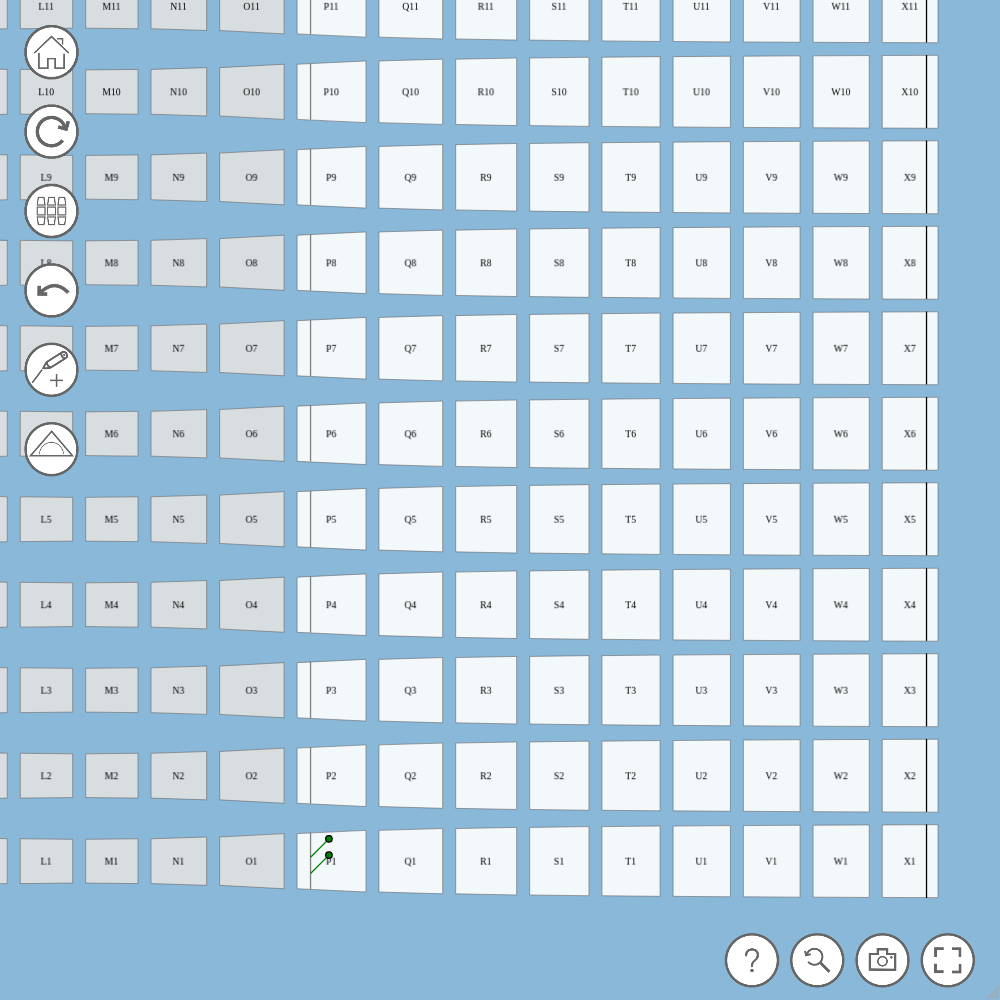
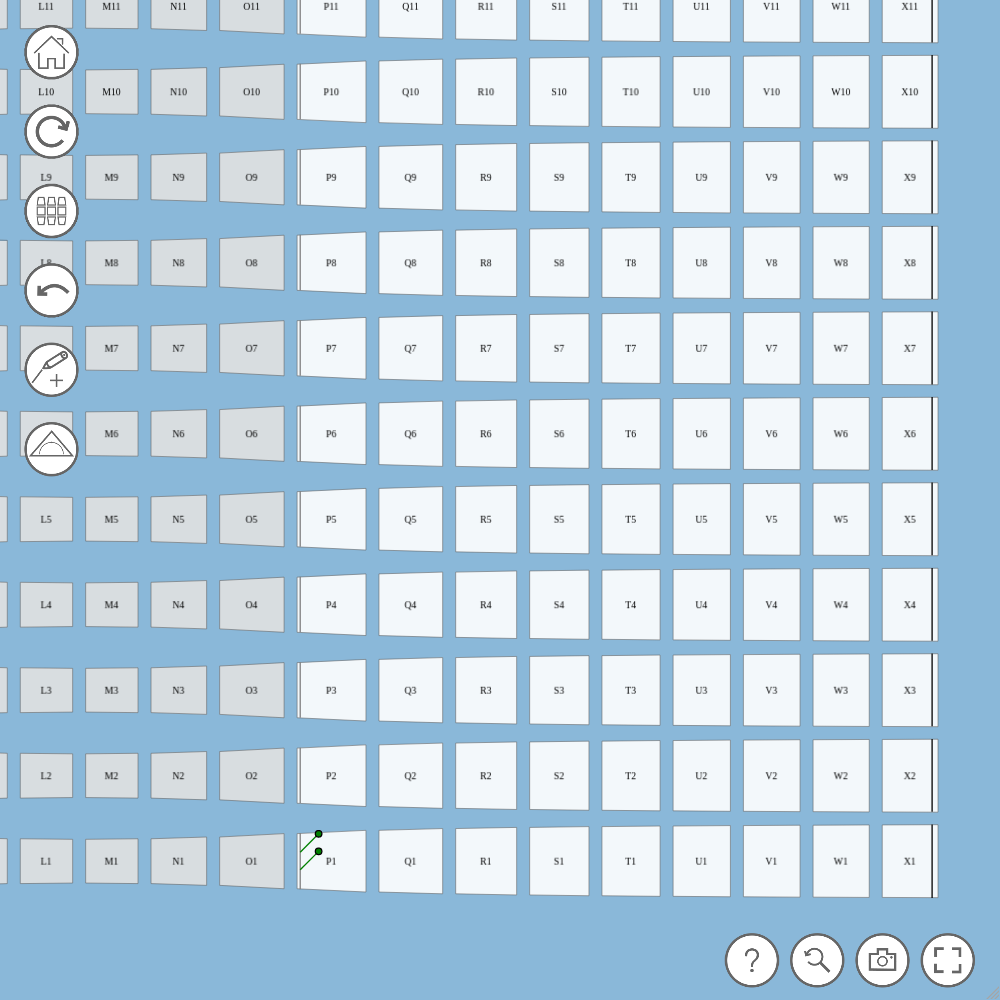
korrekturen

Changed region(s): [[0.279, 0.837, 0.341, 0.868]]

diff --git a/neutronstar_schwarzschild_rz_mix_sym_lander.js b/neutronstar_schwarzschild_rz_mix_sym_lander.js
@@ -12,8 +12,8 @@ startViewportTransform_5 =-2800
 fontSize: 15
 startGeodesicsSectors: [639, 959, 639, 639]
 startGeodesicsAngle: [180, 180, 135, 135]
-startGeodesicsOffset_x: [0.2, 0.8, 0.2, 0.2]
-startGeodesicsOffset_y: [0, 0, 25, 50]
+startGeodesicsOffset_x: [0.05, 0.9, 0.05, 0.05]
+startGeodesicsOffset_y: [0, 0, 30, 57]
 startGeodesicsOperational: ['false', 'false', 'true', 'true']
 ----------------------
 */
@@ -42,10 +42,10 @@ sec_posx= [ 300, 300, 300, 300, 300, 300, 300, 300, 300, 300, 300, 300, 300, 300
 sec_posy= [ 100, 231.51844527415022, 363.03689054830045, 494.5553358224507, 626.0737810966009, 757.5922263707512, 889.1106716449013, 1020.6291169190515, 1152.1475621932018, 1283.666007467352, 1415.1844527415024, 1546.7028980156524, 1678.2213432898027, 1809.739788563953, 1941.258233838103, 2072.776679112253, 2204.2951243864036, 2335.8135696605536, 2467.332014934704, 2598.850460208854, 2730.3689054830047, 2861.8873507571548, 2993.405796031305, 3124.9242413054553, 3256.4426865796054, 3387.9611318537554, 3519.479577127906, 3650.998022402056, 3782.516467676206, 3914.0349129503566, 4045.5533582245066, 4177.071803498657, 4308.590248772807, 4440.108694046958, 4571.627139321107, 4703.145584595258, 4834.664029869408, 4966.182475143558, 5097.700920417708, 5229.219365691859, 99.634361835466, 231.15280710961622, 362.67125238376644, 494.18969765791667, 625.708142932067, 757.2265882062172, 888.7450334803673, 1020.2634787545176, 1151.7819240286678, 1283.3003693028181, 1414.8188145769684, 1546.3372598511185, 1677.8557051252687, 1809.374150399419, 1940.892595673569, 2072.411040947719, 2203.9294862218694, 2335.4479314960195, 2466.96637677017, 2598.48482204432, 2730.0032673184705, 2861.5217125926206, 2993.0401578667706, 3124.558603140921, 3256.077048415071, 3387.5954936892213, 3519.1139389633718, 3650.632384237522, 3782.150829511672, 3913.6692747858224, 4045.1877200599724, 4176.7061653341225, 4308.224610608273, 4439.7430558824235, 4571.261501156573, 4702.779946430724, 4834.298391704874, 4965.816836979024, 5097.335282253174, 5228.853727527325, 99.19240594214821, 230.71085121629844, 362.22929649044863, 493.74774176459886, 625.2661870387492, 756.7846323128995, 888.3030775870495, 1019.8215228611998, 1151.33996813535, 1282.8584134095004, 1414.3768586836507, 1545.8953039578007, 1677.413749231951, 1808.9321945061013, 1940.4506397802513, 2071.969085054401, 2203.4875303285517, 2335.0059756027017, 2466.524420876852, 2598.0428661510023, 2729.561311425153, 2861.079756699303, 2992.598201973453, 3124.1166472476034, 3255.6350925217534, 3387.1535377959035, 3518.671983070054, 3650.190428344204, 3781.708873618354, 3913.2273188925046, 4044.7457641666547, 4176.264209440805, 4307.782654714955, 4439.301099989106, 4570.819545263255, 4702.337990537406, 4833.856435811556, 4965.374881085706, 5096.8933263598565, 5228.411771634007, 98.6473949489075, 230.16584022305773, 361.68428549720795, 493.2027307713581, 624.7211760455085, 756.2396213196588, 887.7580665938088, 1019.2765118679591, 1150.7949571421093, 1282.3134024162596, 1413.8318476904099, 1545.35029296456, 1676.8687382387102, 1808.3871835128605, 1939.9056287870105, 2071.4240740611604, 2202.942519335311, 2334.460964609461, 2465.9794098836114, 2597.4978551577615, 2729.016300431912, 2860.534745706062, 2992.053190980212, 3123.5716362543626, 3255.0900815285127, 3386.6085268026627, 3518.126972076813, 3649.6454173509633, 3781.1638626251133, 3912.682307899264, 4044.200753173414, 4175.719198447564, 4307.237643721714, 4438.756088995865, 4570.274534270015, 4701.792979544165, 4833.311424818316, 4964.829870092465, 5096.348315366616, 5227.866760640766, 97.95840833035072, 229.47685360450095, 360.99529887865117, 492.51374415280134, 624.0321894269517, 755.550634701102, 887.0690799752521, 1018.5875252494023, 1150.1059705235525, 1281.6244157977028, 1413.142861071853, 1544.6613063460031, 1676.1797516201534, 1807.6981968943037, 1939.2166421684537, 2070.735087442604, 2202.2535327167543, 2333.7719779909044, 2465.290423265055, 2596.808868539205, 2728.3273138133554, 2859.8457590875055, 2991.3642043616555, 3122.882649635806, 3254.401094909956, 3385.919540184106, 3517.4379854582567, 3648.9564307324067, 3780.4748760065568, 3911.9933212807073, 4043.5117665548573, 4175.030211829007, 4306.548657103158, 4438.067102377308, 4569.585547651458, 4701.1039929256085, 4832.622438199759, 4964.140883473909, 5095.659328748059, 5227.17777402221, 97.05945482406598, 228.57790009821622, 360.09634537236644, 491.6147906465166, 623.133235920667, 754.6516811948172, 886.1701264689673, 1017.6885717431176, 1149.2070170172678, 1280.7254622914181, 1412.2439075655684, 1543.7623528397185, 1675.2807981138687, 1806.799243388019, 1938.317688662169, 2069.836133936319, 2201.3545792104696, 2332.8730244846197, 2464.39146975877, 2595.9099150329203, 2727.4283603070708, 2858.946805581221, 2990.465250855371, 3121.9836961295214, 3253.5021414036714, 3385.0205866778215, 3516.539031951972, 3648.057477226122, 3779.575922500272, 3911.0943677744226, 4042.6128130485727, 4174.131258322723, 4305.649703596873, 4437.168148871024, 4568.686594145173, 4700.205039419324, 4831.723484693474, 4963.241929967624, 5094.760375241774, 5226.278820515925, 95.8366634254572, 227.35510869960743, 358.8735539737577, 490.39199924790785, 621.9104445220581, 753.4288897962084, 884.9473350703585, 1016.4657803445087, 1147.9842256186591, 1279.5026708928094, 1411.0211161669597, 1542.5395614411098, 1674.05800671526, 1805.5764519894103, 1937.0948972635604, 2068.61334253771, 2200.1317878118607, 2331.6502330860108, 2463.1686783601613, 2594.6871236343113, 2726.205568908462, 2857.724014182612, 2989.242459456762, 3120.7609047309124, 3252.2793500050625, 3383.7977952792126, 3515.316240553363, 3646.834685827513, 3778.353131101663, 3909.8715763758137, 4041.3900216499637, 4172.908466924114, 4304.426912198264, 4435.945357472415, 4567.463802746564, 4698.982248020715, 4830.500693294865, 4962.019138569015, 5093.5375838431655, 5225.056029117316, 94.07474079043541, 225.59318606458564, 357.1116313387359, 488.63007661288606, 620.1485218870364, 751.6669671611867, 883.1854124353367, 1014.703857709487, 1146.2223029836373, 1277.7407482577876, 1409.2591935319379, 1540.777638806088, 1672.2960840802382, 1803.8145293543885, 1935.3329746285385, 2066.8514199026886, 2198.369865176839, 2329.888310450989, 2461.4067557251396, 2592.9252009992897, 2724.44364627344, 2855.9620915475903, 2987.4805368217403, 3118.998982095891, 3250.517427370041, 3382.035872644191, 3513.5543179183414, 3645.0727631924915, 3776.5912084666415, 3908.109653740792, 4039.628099014942, 4171.146544289092, 4302.664989563243, 4434.183434837393, 4565.701880111543, 4697.220325385693, 4828.738770659844, 4960.257215933993, 5091.775661208144, 5223.294106482294, 91.30930410091658, 222.8277493750668, 354.34619464921707, 485.86463992336724, 617.3830851975175, 748.9015304716678, 880.4199757458179, 1011.9384210199681, 1143.4568662941185, 1274.9753115682688, 1406.493756842419, 1538.0122021165691, 1669.5306473907194, 1801.0490926648697, 1932.5675379390198, 2064.0859832131696, 2195.60442848732, 2327.12287376147, 2458.6413190356207, 2590.1597643097707, 2721.678209583921, 2853.1966548580713, 2984.7151001322213, 3116.233545406372, 3247.751990680522, 3379.270435954672, 3510.7888812288224, 3642.3073265029725, 3773.8257717771226, 3905.344217051273, 4036.862662325423, 4168.381107599574, 4299.899552873724, 4431.417998147875, 4562.936443422024, 4694.454888696175, 4825.973333970325, 4957.491779244475, 5089.010224518625, 5220.528669792776, 86.30154606958374, 217.81999134373393, 349.3384366178842, 480.8568818920344, 612.3753271661847, 743.8937724403349, 875.412217714485, 1006.9306629886353, 1138.4491082627858, 1269.967553536936, 1401.4859988110863, 1533.0044440852364, 1664.5228893593867, 1796.041334633537, 1927.559779907687, 2059.078225181837, 2190.5966704559874, 2322.1151157301374, 2453.633561004288, 2585.152006278438, 2716.6704515525885, 2848.1888968267385, 2979.7073421008886, 3111.225787375039, 3242.744232649189, 3374.262677923339, 3505.7811231974897, 3637.2995684716398, 3768.81801374579, 3900.3364590199403, 4031.8549042940904, 4163.373349568241, 4294.891794842391, 4426.410240116542, 4557.9286853906915, 4689.447130664842, 4820.9655759389925, 4952.484021213142, 5084.002466487293, 5215.520911761443, 81.05723639453426, 212.57568166868447, 344.09412694283475, 475.6125722169849, 607.1310174911351, 738.6494627652854, 870.1679080394355, 1001.6863533135858, 1133.2047985877364, 1264.7232438618867, 1396.241689136037, 1527.760134410187, 1659.2785796843373, 1790.7970249584876, 1922.3154702326376, 2053.8339155067874, 2185.352360780938, 2316.870806055088, 2448.3892513292385, 2579.9076966033886, 2711.426141877539, 2842.944587151689, 2974.463032425839, 3105.9814776999897, 3237.4999229741397, 3369.01836824829, 3500.5368135224403, 3632.0552587965904, 3763.5737040707404, 3895.092149344891, 4026.610594619041, 4158.1290398931915, 4289.647485167342, 4421.1659304414925, 4552.684375715642, 4684.202820989793, 4815.721266263943, 4947.239711538093, 5078.758156812243, 5210.276602086394, 78.35999003095367, 209.87843530510386, 341.3968805792542, 472.91532585340434, 604.4337711275546, 735.9522164017048, 867.4706616758549, 998.9891069500052, 1130.5075522241557, 1262.025997498306, 1393.5444427724563, 1525.0628880466063, 1656.5813333207566, 1788.0997785949069, 1919.618223869057, 2051.1366691432067, 2182.6551144173573, 2314.1735596915073, 2445.692004965658, 2577.210450239808, 2708.7288955139584, 2840.2473407881084, 2971.7657860622585, 3103.284231336409, 3234.802676610559, 3366.321121884709, 3497.8395671588596, 3629.3580124330097, 3760.8764577071597, 3892.39490298131, 4023.9133482554603, 4155.431793529611, 4286.950238803762, 4418.468684077912, 4549.987129352062, 4681.505574626212, 4813.024019900363, 4944.5424651745125, 5076.060910448663, 5207.5793557228135, 78.35999003095367, 209.87843530510386, 341.3968805792542, 472.91532585340434, 604.4337711275546, 735.9522164017048, 867.4706616758549, 998.9891069500052, 1130.5075522241557, 1262.025997498306, 1393.5444427724563, 1525.0628880466063, 1656.5813333207566, 1788.0997785949069, 1919.618223869057, 2051.1366691432067, 2182.6551144173573, 2314.1735596915073, 2445.692004965658, 2577.210450239808, 2708.7288955139584, 2840.2473407881084, 2971.7657860622585, 3103.284231336409, 3234.802676610559, 3366.321121884709, 3497.8395671588596, 3629.3580124330097, 3760.8764577071597, 3892.39490298131, 4023.9133482554603, 4155.431793529611, 4286.950238803762, 4418.468684077912, 4549.987129352062, 4681.505574626212, 4813.024019900363, 4944.5424651745125, 5076.060910448663, 5207.5793557228135, 81.05723639453427, 212.57568166868447, 344.09412694283475, 475.6125722169849, 607.1310174911351, 738.6494627652854, 870.1679080394355, 1001.6863533135858, 1133.2047985877364, 1264.7232438618867, 1396.241689136037, 1527.760134410187, 1659.2785796843373, 1790.7970249584876, 1922.3154702326376, 2053.8339155067874, 2185.352360780938, 2316.870806055088, 2448.3892513292385, 2579.9076966033886, 2711.426141877539, 2842.944587151689, 2974.463032425839, 3105.9814776999897, 3237.4999229741397, 3369.01836824829, 3500.5368135224403, 3632.0552587965904, 3763.5737040707404, 3895.092149344891, 4026.610594619041, 4158.1290398931915, 4289.647485167342, 4421.1659304414925, 4552.684375715642, 4684.202820989793, 4815.721266263943, 4947.239711538093, 5078.758156812243, 5210.276602086394, 86.30154606958375, 217.81999134373393, 349.3384366178842, 480.8568818920344, 612.3753271661847, 743.8937724403349, 875.412217714485, 1006.9306629886353, 1138.4491082627858, 1269.967553536936, 1401.4859988110863, 1533.0044440852364, 1664.5228893593867, 1796.041334633537, 1927.559779907687, 2059.078225181837, 2190.5966704559874, 2322.1151157301374, 2453.633561004288, 2585.152006278438, 2716.6704515525885, 2848.1888968267385, 2979.7073421008886, 3111.225787375039, 3242.744232649189, 3374.262677923339, 3505.7811231974897, 3637.2995684716398, 3768.81801374579, 3900.3364590199403, 4031.8549042940904, 4163.373349568241, 4294.891794842391, 4426.410240116542, 4557.9286853906915, 4689.447130664842, 4820.9655759389925, 4952.484021213142, 5084.002466487293, 5215.520911761443, 91.30930410091659, 222.8277493750668, 354.34619464921707, 485.86463992336724, 617.3830851975175, 748.9015304716678, 880.4199757458179, 1011.9384210199681, 1143.4568662941185, 1274.9753115682688, 1406.493756842419, 1538.0122021165691, 1669.5306473907194, 1801.0490926648697, 1932.5675379390198, 2064.0859832131696, 2195.60442848732, 2327.12287376147, 2458.6413190356207, 2590.1597643097707, 2721.678209583921, 2853.1966548580713, 2984.7151001322213, 3116.233545406372, 3247.751990680522, 3379.270435954672, 3510.7888812288224, 3642.3073265029725, 3773.8257717771226, 3905.344217051273, 4036.862662325423, 4168.381107599574, 4299.899552873724, 4431.417998147875, 4562.936443422024, 4694.454888696175, 4825.973333970325, 4957.491779244475, 5089.010224518625, 5220.528669792776, 94.07474079043543, 225.5931860645856, 357.1116313387359, 488.63007661288606, 620.1485218870364, 751.6669671611867, 883.1854124353367, 1014.703857709487, 1146.2223029836373, 1277.7407482577876, 1409.2591935319379, 1540.777638806088, 1672.2960840802382, 1803.8145293543885, 1935.3329746285385, 2066.8514199026886, 2198.369865176839, 2329.888310450989, 2461.4067557251396, 2592.9252009992897, 2724.44364627344, 2855.9620915475903, 2987.4805368217403, 3118.998982095891, 3250.517427370041, 3382.035872644191, 3513.5543179183414, 3645.0727631924915, 3776.5912084666415, 3908.109653740792, 4039.628099014942, 4171.146544289092, 4302.664989563243, 4434.183434837393, 4565.701880111543, 4697.220325385693, 4828.738770659844, 4960.257215933993, 5091.775661208144, 5223.294106482294, 95.8366634254572, 227.3551086996074, 358.8735539737577, 490.39199924790785, 621.9104445220581, 753.4288897962084, 884.9473350703585, 1016.4657803445087, 1147.9842256186591, 1279.5026708928094, 1411.0211161669597, 1542.5395614411098, 1674.05800671526, 1805.5764519894103, 1937.0948972635604, 2068.61334253771, 2200.1317878118607, 2331.6502330860108, 2463.1686783601613, 2594.6871236343113, 2726.205568908462, 2857.724014182612, 2989.242459456762, 3120.7609047309124, 3252.2793500050625, 3383.7977952792126, 3515.316240553363, 3646.834685827513, 3778.353131101663, 3909.8715763758137, 4041.3900216499637, 4172.908466924114, 4304.426912198264, 4435.945357472415, 4567.463802746564, 4698.982248020715, 4830.500693294865, 4962.019138569015, 5093.5375838431655, 5225.056029117316, 97.059454824066, 228.5779000982162, 360.09634537236644, 491.6147906465166, 623.133235920667, 754.6516811948172, 886.1701264689673, 1017.6885717431176, 1149.2070170172678, 1280.7254622914181, 1412.2439075655684, 1543.7623528397185, 1675.2807981138687, 1806.799243388019, 1938.317688662169, 2069.836133936319, 2201.3545792104696, 2332.8730244846197, 2464.39146975877, 2595.9099150329203, 2727.4283603070708, 2858.946805581221, 2990.465250855371, 3121.9836961295214, 3253.5021414036714, 3385.0205866778215, 3516.539031951972, 3648.057477226122, 3779.575922500272, 3911.0943677744226, 4042.6128130485727, 4174.131258322723, 4305.649703596873, 4437.168148871024, 4568.686594145173, 4700.205039419324, 4831.723484693474, 4963.241929967624, 5094.760375241774, 5226.278820515925, 97.95840833035074, 229.47685360450095, 360.99529887865117, 492.51374415280134, 624.0321894269517, 755.550634701102, 887.0690799752521, 1018.5875252494023, 1150.1059705235525, 1281.6244157977028, 1413.142861071853, 1544.6613063460031, 1676.1797516201534, 1807.6981968943037, 1939.2166421684537, 2070.735087442604, 2202.2535327167543, 2333.7719779909044, 2465.290423265055, 2596.808868539205, 2728.3273138133554, 2859.8457590875055, 2991.3642043616555, 3122.882649635806, 3254.401094909956, 3385.919540184106, 3517.4379854582567, 3648.9564307324067, 3780.4748760065568, 3911.9933212807073, 4043.5117665548573, 4175.030211829007, 4306.548657103158, 4438.067102377308, 4569.585547651458, 4701.1039929256085, 4832.622438199759, 4964.140883473909, 5095.659328748059, 5227.17777402221, 98.6473949489075, 230.16584022305773, 361.68428549720795, 493.2027307713581, 624.7211760455085, 756.2396213196588, 887.7580665938088, 1019.2765118679591, 1150.7949571421093, 1282.3134024162596, 1413.8318476904099, 1545.35029296456, 1676.8687382387102, 1808.3871835128605, 1939.9056287870105, 2071.4240740611604, 2202.942519335311, 2334.460964609461, 2465.9794098836114, 2597.4978551577615, 2729.016300431912, 2860.534745706062, 2992.053190980212, 3123.5716362543626, 3255.0900815285127, 3386.6085268026627, 3518.126972076813, 3649.6454173509633, 3781.1638626251133, 3912.682307899264, 4044.200753173414, 4175.719198447564, 4307.237643721714, 4438.756088995865, 4570.274534270015, 4701.792979544165, 4833.311424818316, 4964.829870092465, 5096.348315366616, 5227.866760640766, 99.19240594214821, 230.71085121629844, 362.22929649044863, 493.7477417645988, 625.2661870387492, 756.7846323128995, 888.3030775870495, 1019.8215228611998, 1151.33996813535, 1282.8584134095004, 1414.3768586836507, 1545.8953039578007, 1677.413749231951, 1808.9321945061013, 1940.4506397802513, 2071.969085054401, 2203.4875303285517, 2335.0059756027017, 2466.524420876852, 2598.0428661510023, 2729.561311425153, 2861.079756699303, 2992.598201973453, 3124.1166472476034, 3255.6350925217534, 3387.1535377959035, 3518.671983070054, 3650.190428344204, 3781.708873618354, 3913.2273188925046, 4044.7457641666547, 4176.264209440805, 4307.782654714955, 4439.301099989106, 4570.819545263255, 4702.337990537406, 4833.856435811556, 4965.374881085706, 5096.8933263598565, 5228.411771634007, 99.634361835466, 231.15280710961622, 362.67125238376644, 494.1896976579166, 625.708142932067, 757.2265882062172, 888.7450334803673, 1020.2634787545176, 1151.7819240286678, 1283.3003693028181, 1414.8188145769684, 1546.3372598511185, 1677.8557051252687, 1809.374150399419, 1940.892595673569, 2072.411040947719, 2203.9294862218694, 2335.4479314960195, 2466.96637677017, 2598.48482204432, 2730.0032673184705, 2861.5217125926206, 2993.0401578667706, 3124.558603140921, 3256.077048415071, 3387.5954936892213, 3519.1139389633718, 3650.632384237522, 3782.150829511672, 3913.6692747858224, 4045.1877200599724, 4176.7061653341225, 4308.224610608273, 4439.7430558824235, 4571.261501156573, 4702.779946430724, 4834.298391704874, 4965.816836979024, 5097.335282253174, 5228.853727527325, 100.0, 231.51844527415022, 363.03689054830045, 494.5553358224506, 626.0737810966009, 757.5922263707512, 889.1106716449012, 1020.6291169190515, 1152.1475621932018, 1283.666007467352, 1415.1844527415024, 1546.7028980156524, 1678.2213432898027, 1809.739788563953, 1941.258233838103, 2072.776679112253, 2204.2951243864036, 2335.8135696605536, 2467.332014934704, 2598.850460208854, 2730.3689054830047, 2861.8873507571548, 2993.405796031305, 3124.9242413054553, 3256.4426865796054, 3387.9611318537554, 3519.479577127906, 3650.998022402056, 3782.516467676206, 3914.0349129503566, 4045.5533582245066, 4177.071803498657, 4308.590248772807, 4440.108694046958, 4571.627139321107, 4703.145584595258, 4834.664029869408, 4966.182475143558, 5097.700920417708, 5229.219365691859, ];
 sec_angle= [ 0, 0, 0, 0, 0, 0, 0, 0, 0, 0, 0, 0, 0, 0, 0, 0, 0, 0, 0, 0, 0, 0, 0, 0, 0, 0, 0, 0, 0, 0, 0, 0, 0, 0, 0, 0, 0, 0, 0, 0, 0, 0, 0, 0, 0, 0, 0, 0, 0, 0, 0, 0, 0, 0, 0, 0, 0, 0, 0, 0, 0, 0, 0, 0, 0, 0, 0, 0, 0, 0, 0, 0, 0, 0, 0, 0, 0, 0, 0, 0, 0, 0, 0, 0, 0, 0, 0, 0, 0, 0, 0, 0, 0, 0, 0, 0, 0, 0, 0, 0, 0, 0, 0, 0, 0, 0, 0, 0, 0, 0, 0, 0, 0, 0, 0, 0, 0, 0, 0, 0, 0, 0, 0, 0, 0, 0, 0, 0, 0, 0, 0, 0, 0, 0, 0, 0, 0, 0, 0, 0, 0, 0, 0, 0, 0, 0, 0, 0, 0, 0, 0, 0, 0, 0, 0, 0, 0, 0, 0, 0, 0, 0, 0, 0, 0, 0, 0, 0, 0, 0, 0, 0, 0, 0, 0, 0, 0, 0, 0, 0, 0, 0, 0, 0, 0, 0, 0, 0, 0, 0, 0, 0, 0, 0, 0, 0, 0, 0, 0, 0, 0, 0, 0, 0, 0, 0, 0, 0, 0, 0, 0, 0, 0, 0, 0, 0, 0, 0, 0, 0, 0, 0, 0, 0, 0, 0, 0, 0, 0, 0, 0, 0, 0, 0, 0, 0, 0, 0, 0, 0, 0, 0, 0, 0, 0, 0, 0, 0, 0, 0, 0, 0, 0, 0, 0, 0, 0, 0, 0, 0, 0, 0, 0, 0, 0, 0, 0, 0, 0, 0, 0, 0, 0, 0, 0, 0, 0, 0, 0, 0, 0, 0, 0, 0, 0, 0, 0, 0, 0, 0, 0, 0, 0, 0, 0, 0, 0, 0, 0, 0, 0, 0, 0, 0, 0, 0, 0, 0, 0, 0, 0, 0, 0, 0, 0, 0, 0, 0, 0, 0, 0, 0, 0, 0, 0, 0, 0, 0, 0, 0, 0, 0, 0, 0, 0, 0, 0, 0, 0, 0, 0, 0, 0, 0, 0, 0, 0, 0, 0, 0, 0, 0, 0, 0, 0, 0, 0, 0, 0, 0, 0, 0, 0, 0, 0, 0, 0, 0, 0, 0, 0, 0, 0, 0, 0, 0, 0, 0, 0, 0, 0, 0, 0, 0, 0, 0, 0, 0, 0, 0, 0, 0, 0, 0, 0, 0, 0, 0, 0, 0, 0, 0, 0, 0, 0, 0, 0, 0, 0, 0, 0, 0, 0, 0, 0, 0, 0, 0, 0, 0, 0, 0, 0, 0, 0, 0, 0, 0, 0, 0, 0, 0, 0, 0, 0, 0, 0, 0, 0, 0, 0, 0, 0, 0, 0, 0, 0, 0, 0, 0, 0, 0, 0, 0, 0, 0, 0, 0, 0, 0, 0, 0, 0, 0, 0, 0, 0, 0, 0, 0, 0, 0, 0, 0, 0, 0, 0, 0, 0, 0, 0, 0, 0, 0, 0, 0, 0, 0, 0, 0, 0, 0, 0, 0, 0, 0, 0, 0, 0, 0, 0, 0, 0, 0, 0, 0, 0, 0, 0, 0, 0, 0, 0, 0, 0, 0, 0, 0, 0, 0, 0, 0, 0, 0, 0, 0, 0, 0, 0, 0, 0, 0, 0, 0, 0, 0, 0, 0, 0, 0, 0, 0, 0, 0, 0, 0, 0, 0, 0, 0, 0, 0, 0, 0, 0, 0, 0, 0, 0, 0, 0, 0, 0, 0, 0, 0, 0, 0, 0, 0, 0, 0, 0, 0, 0, 0, 0, 0, 0, 0, 0, 0, 0, 0, 0, 0, 0, 0, 0, 0, 0, 0, 0, 0, 0, 0, 0, 0, 0, 0, 0, 0, 0, 0, 0, 0, 0, 0, 0, 0, 0, 0, 0, 0, 0, 0, 0, 0, 0, 0, 0, 0, 0, 0, 0, 0, 0, 0, 0, 0, 0, 0, 0, 0, 0, 0, 0, 0, 0, 0, 0, 0, 0, 0, 0, 0, 0, 0, 0, 0, 0, 0, 0, 0, 0, 0, 0, 0, 0, 0, 0, 0, 0, 0, 0, 0, 0, 0, 0, 0, 0, 0, 0, 0, 0, 0, 0, 0, 0, 0, 0, 0, 0, 0, 0, 0, 0, 0, 0, 0, 0, 0, 0, 0, 0, 0, 0, 0, 0, 0, 0, 0, 0, 0, 0, 0, 0, 0, 0, 0, 0, 0, 0, 0, 0, 0, 0, 0, 0, 0, 0, 0, 0, 0, 0, 0, 0, 0, 0, 0, 0, 0, 0, 0, 0, 0, 0, 0, 0, 0, 0, 0, 0, 0, 0, 0, 0, 0, 0, 0, 0, 0, 0, 0, 0, 0, 0, 0, 0, 0, 0, 0, 0, 0, 0, 0, 0, 0, 0, 0, 0, 0, 0, 0, 0, 0, 0, 0, 0, 0, 0, 0, 0, 0, 0, 0, 0, 0, 0, 0, 0, 0, 0, 0, 0, 0, 0, 0, 0, 0, 0, 0, 0, 0, 0, 0, 0, 0, 0, 0, 0, 0, 0, 0, 0, 0, 0, 0, 0, 0, 0, 0, 0, 0, 0, 0, 0, 0, 0, 0, 0, 0, 0, 0, 0, 0, 0, 0, 0, 0, 0, 0, 0, 0, 0, 0, 0, 0, 0, 0, 0, 0, 0, 0, 0, 0, 0, 0, 0, 0, 0, 0, 0, 0, 0, 0, 0, 0, 0, 0, 0, 0, 0, 0, 0, 0, 0, 0, 0, 0, 0, 0, 0, 0, 0, 0, 0, 0, 0, 0, 0, 0, 0, 0, 0, 0, 0, 0, 0, 0, 0, 0, 0, 0, 0, 0, 0, 0, 0, 0, 0, 0, 0, 0, 0, 0, 0, 0, 0, 0, 0, 0, 0, 0, 0, 0, 0, 0, 0, 0, 0, 0, 0, 0, 0, 0, 0, 0, 0, 0, 0, 0, 0, 0, 0, 0, 0, 0, 0, 0, 0, 0, 0, 0, 0, 0, 0, 0, 0, 0, ];
 startSectors= [ 639, 959, 639, 639, ];
-x_Start= [ 1977.7657771322117, 2925.419550411241, 1977.7657771322117, 1977.7657771322117, ];
-y_Start= [ 5216.52246336771, 5229.146238058952, 5191.52246336771, 5166.52246336771, ];
-x_End= [ 1977.7657771322117, 2925.419550411241, 2006.0500483796736, 2006.0500483796736, ];
-y_End= [ 5176.52246336771, 5189.146238058952, 5163.238192120248, 5138.238192120248, ];
+x_Start= [ 1961.8735070957675, 2933.9986725640415, 1961.8735070957675, 1961.8735070957675, ];
+y_Start= [ 5215.77129966301, 5229.182801875405, 5185.77129966301, 5158.77129966301, ];
+x_End= [ 1961.8735070957675, 2933.9986725640415, 1990.1577783432294, 1990.1577783432294, ];
+y_End= [ 5175.77129966301, 5189.182801875405, 5157.487028415548, 5130.487028415548, ];
 startStrokeWidth= [ 2, 2, 2, 2, ];
 startFill= [ line_colors[0], line_colors[1], line_colors[2], line_colors[3], ];
 startStroke= [ line_colors[0], line_colors[1], line_colors[2], line_colors[3], ];

diff --git a/main_application.js b/main_application.js
@@ -545,11 +545,13 @@ canvas.on('mouse:wheel', function(opt) {
     opt.e.preventDefault();
     opt.e.stopPropagation();
 
+    /*
     for (let ii = geodesics.length - 1; ii >= 0; ii--) {
         if(geodesics[ii][geodesics[ii].length-1] !== undefined) {
             geodesics[ii][geodesics[ii].length - 1].dragPoint.padding = dragPointPadding * 1 / zoom;
         }
     }
+    */
 });
 
 canvas.on('mouse:down', function(opt) {
@@ -1054,14 +1056,20 @@ fabric.Image.fromURL(instructional_overlay_language, function(img) {
 //-----------------Geodreieck--------------------------------
 let geodreieckIsClicked = false;
 let geodreieck;
-let geodreieckScale = 0.12;
 
+
+let geodreieckStartAngle;
 let geodreieckSnapAngle;
+let geodreieckScale;
 
 if (turnLorentzTransformOn == "1"){
     geodreieckSnapAngle = 15
+    geodreieckStartAngle = 90
+    geodreieckScale = 0.0585
 }else{
     geodreieckSnapAngle = 0.1
+    geodreieckStartAngle = 0
+    geodreieckScale = 0.12
 }
 
 fabric.Image.fromURL('geodreieck.png', function(img) {
@@ -1075,7 +1083,7 @@ fabric.Image.fromURL('geodreieck.png', function(img) {
         hasControls: true,
         transparentCorners: true,
         cornerSize: 40,
-        angle: 0,
+        angle: geodreieckStartAngle,
         evented: true,
         selectable: true,
         centeredRotation: false,
@@ -2040,7 +2048,7 @@ function drawDragPoint(geodesicToGivePoint) {
         fill: lineSegment.fill,
         perPixelTargetFind: false,
         hasBorders: false,
-        padding: 10,
+        padding: 5,
         objectCaching: false,
         selectable: false,
         lockMovementX: true,

diff --git a/main_button_side_bar_perm.js b/main_button_side_bar_perm.js
@@ -258,12 +258,12 @@ let shadowOff = {
 }
 
 let back_language;
-if(language == "german"){
+if(language !== "english"){
     back_language = 'german.html'
-}
-if(language == "english"){
+}else{
     back_language = 'english.html'
 }
+
 
 fabric.Image.fromURL('back.png', function(img) {
     let back = img.set({

diff --git a/neutronstar_schwarzschild_rz_mix_sym.py b/neutronstar_schwarzschild_rz_mix_sym.py
@@ -3,7 +3,7 @@ import math
 
 
 nRowsInModel = 40
-nColumnsInModel = 8
+nColumnsInModel = 24
 
 nColumnsOfStar = 6
 
@@ -19,30 +19,30 @@ start_x = 300
 start_y = 100
 
 startZoom = 0.65
-startViewportTransform_4 = -300
-startViewportTransform_5 = -2100
+startViewportTransform_4 = -1300
+startViewportTransform_5 = -2800
 
 #startGeodesicsAngle: 180 Grad fuer Geodaeten, die senkrecht nach oben verlaufen
 #startGeodesicsAngle: 135 Grad fuer Geodaeten im 45 Grad Winkel (Licht)
 #startGeodesicsOffset_x: Versatz in % entlang der Raumachse (wenn startGeodesicsOffset_y = 0)
 #startGeodesicsOffset_y: Versatz in px entlang der Zeitachse (wenn startGeodesicsOffset_x = 0)
 
-startGeodesicsAngle = [180]
+startGeodesicsAngle = [180, 180, 135, 135]
 
 #WICHTIG, wenn in einem Sektor mehrere Geodäten starten sollen, so müssen sie in startGeodesicsSectors direkt auf einander folgen
 
-startGeodesicsSectors = [8 * nRowsInModel -1]
+startGeodesicsSectors = [639, 959, 639, 639]
 
 
-startGeodesicsOffset_x = [0.8]
+startGeodesicsOffset_x = [0.05, 0.9, 0.05, 0.05]
 
-startGeodesicsOffset_y = [0]
+startGeodesicsOffset_y = [0, 0, 30, 57]
 
-startGeodesicsOperational = ['true']
+startGeodesicsOperational = ['false', 'false', 'true', 'true']
 
 def main():
 
-    file = io.open("neutronenstern_schwarzschild_mix_sym_roehre.js",'w')
+    file = io.open("neutronstar_schwarzschild_rz_mix_sym_lander.js",'w')
 
     file.write( "/*" +"\n"
                 "------Parameter-------" + "\n"
@@ -77,7 +77,7 @@ def main():
     file.write("\n")
 
     file.write(
-        "line_colors = [ 'black', 'blue', 'green', 'green', 'grey','grey','grey','grey','grey','grey','grey','grey','grey','grey','grey','grey','grey','grey','grey','grey','grey','grey','grey'];")
+        "line_colors = [ 'grey', 'black', 'green', 'green', 'grey','grey','grey','grey','grey','grey','grey','grey','grey','grey','grey','grey','grey','grey','grey','grey','grey','grey','grey'];")
     file.write("\n")
 
     variablenamesSectors = ["sec_name", "sec_ID",  "sec_fill", "sec_type", "sec_fontSize", "sec_width", "sec_height", "sec_timeEdgeLeft", "sec_timeEdgeRight", "spaceEdge", "sec_coords", "sec_neighbour_top", "sec_neighbour_right", "sec_neighbour_bottom", "sec_neighbour_left", "sec_posx", "sec_posy", "sec_angle"]
